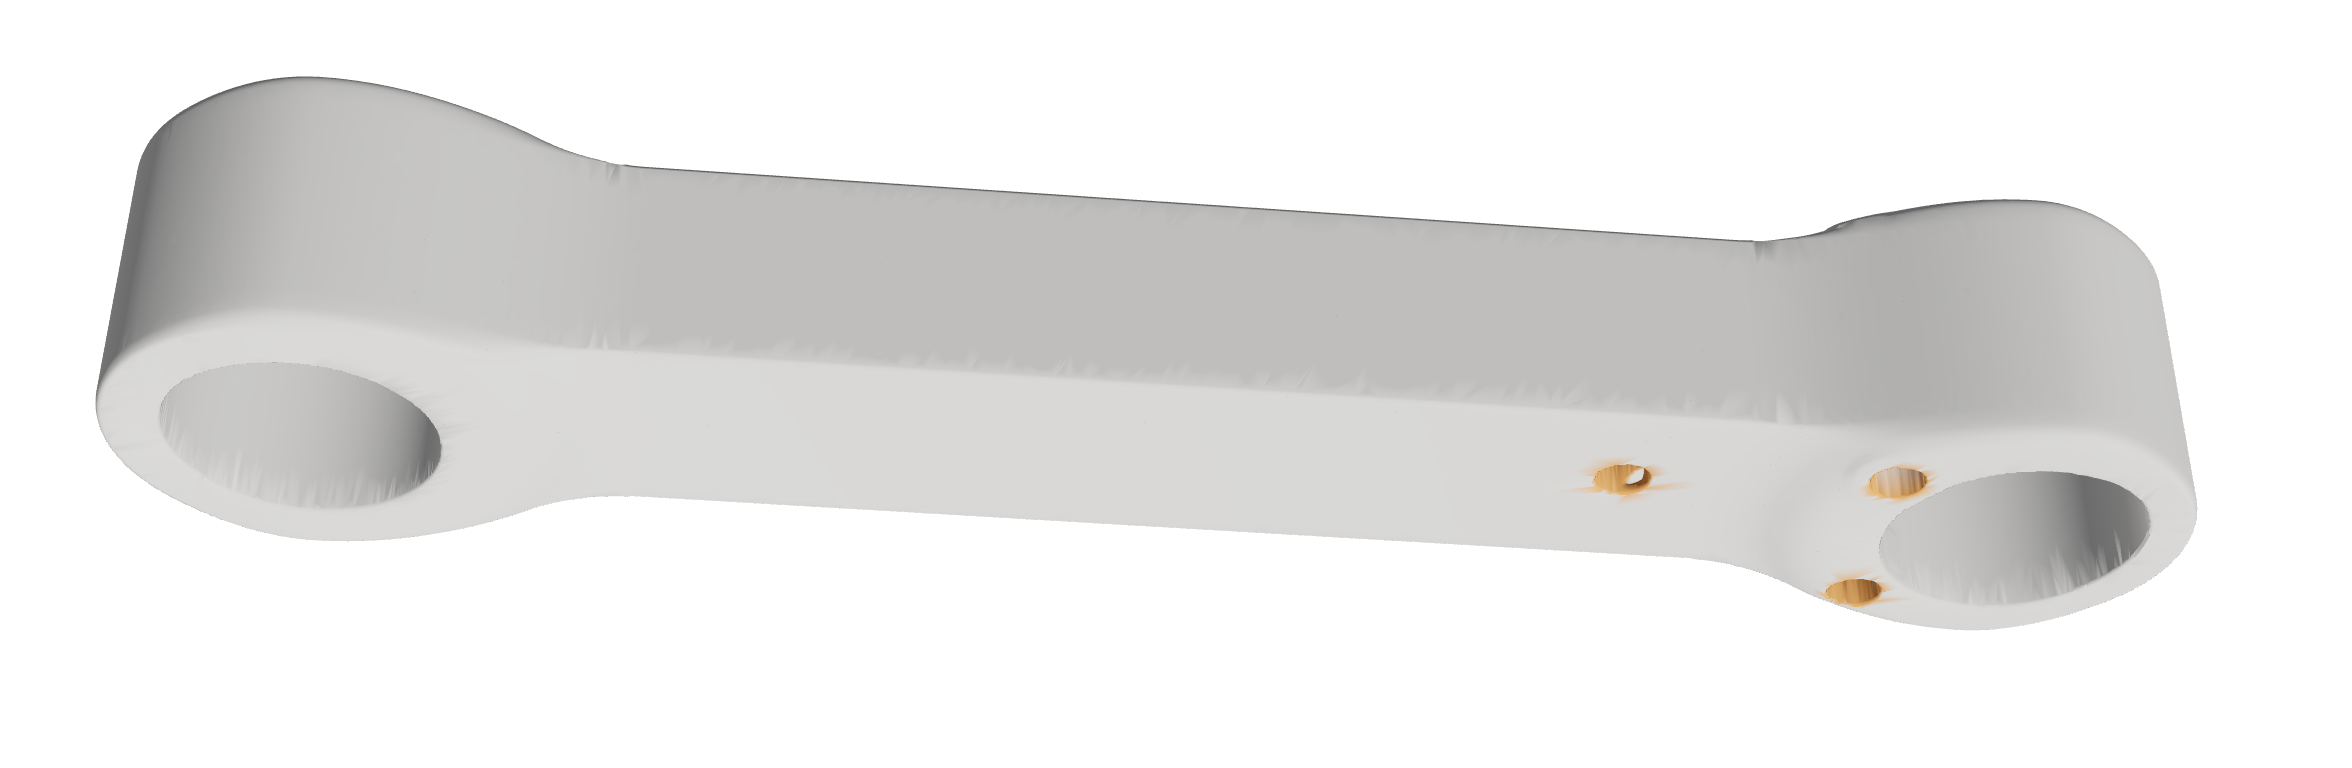
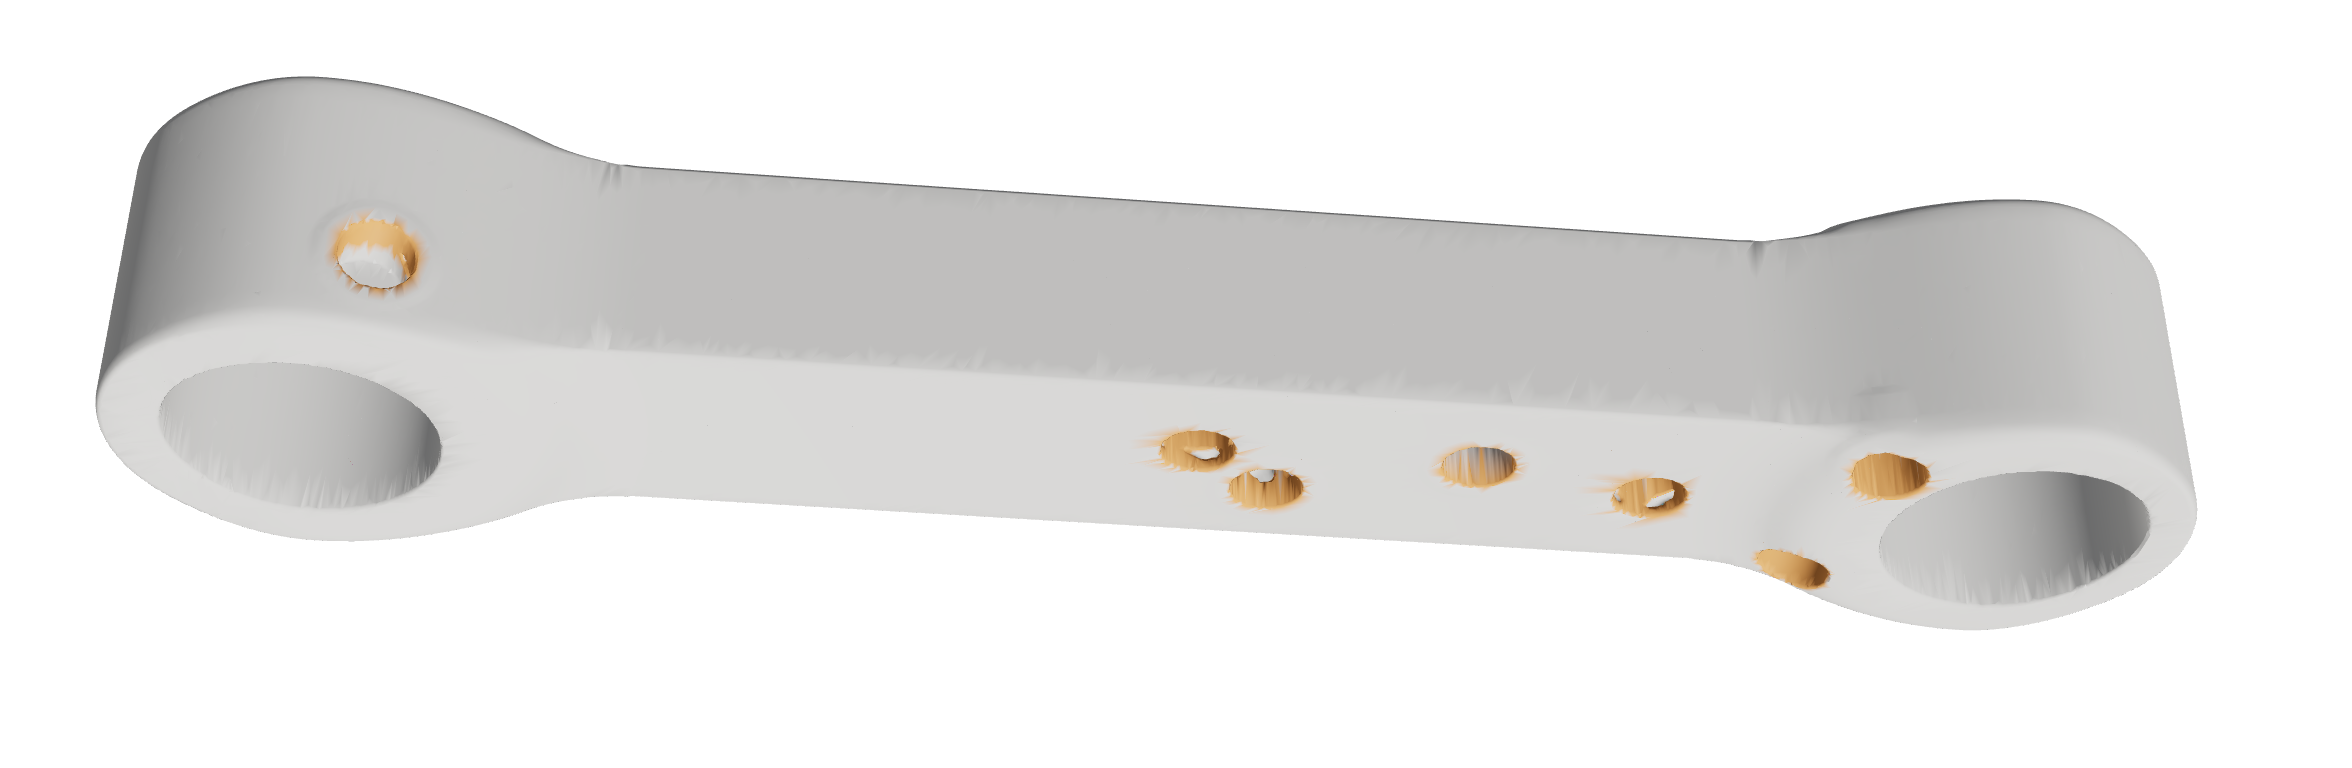
drains: conservative defaults (Connor: holes too tight)
Holes 1.5x the process's minimum escape hole or 2 mm over it, whichever
is larger (SLS 6, MJF 7.5, resin 5.5, volumetric 5; LPBF 6.8, M8 tap),
and maxPath 60 mm on by default (up to 8 holes a void). Arm link PA12:
14 holes, farthest powder 50 mm (was 124), nothing sealed, escape clear;
SF 13.5 vs 13.4 undrilled, 10% softer.

Claude-Session: https://claude.ai/code/session_01HFwANUeYJG6cPZRyDH6a6D

diff --git a/loadpath/drains.py b/loadpath/drains.py
@@ -8,9 +8,10 @@ output on a voxel grid of the field itself and opens each one:
 
 - voids too small to hold a hole (under the escape hole's own ball by
   default) are filled solid;
-- every other void gets holes half a millimetre over the process's
-  minimum escape hole (SLS 4 mm, MJF 5, resin 3.5, volumetric 3; LPBF 4.2,
-  an M5 tap drill, so it can be plugged), two per void by default:
+- every other void gets holes well over the process's minimum escape hole
+  (1.5 x it or 2 mm over, whichever is larger: SLS 6 mm, MJF 7.5, resin
+  5.5, volumetric 5; LPBF 6.8, an M8 tap drill, so it can be plugged), two
+  per void, then more until no powder is over 60 mm (`maxPath`) from one:
   the calmest flat site first, lowest along the build, then the calmest one
   well away from it, highest along the build, so air or rinse flows
   through (and resin has its drain at the bottom and its vent at the top);
@@ -40,6 +41,7 @@ Units are millimetres.
 """
 from __future__ import annotations
 
+import math
 from dataclasses import dataclass, field
 
 import numpy as np
@@ -49,17 +51,18 @@ __all__ = ["DrainOptions", "drain_graph", "drains_wanted", "hole_defaults"]
 
 # processes with something to drain, and the ones processcheck has no card for
 _DRAINED = ("sls", "mjf", "sla", "dlp", "volumetric", "lpbf")
-_EXTRA = {"volumetric": 3.0, "lpbf": 4.2}         # lpbf: an M5 tap drill, so a hole can be plugged
+_EXTRA = {"volumetric": 3.0, "lpbf": 4.0}         # minimum escape holes processcheck has no card for
+_LPBF_DRILL = 6.8                                 # an M8 tap drill: big, and it can be plugged
 _TINY = 1.0                                       # mm^3: smaller is aliasing, not a void
 _ROUNDS = 6                                       # relabellings; holes in the first four, then fill only
 _DRILL_ROUNDS = 4
-_MAX_HOLES = 6                                    # a void, with maxPath
+_MAX_HOLES = 8                                     # a void, with maxPath
 _BUDGET = 16_000_000
 
 
 @dataclass
 class DrainOptions:
-    diameter: float | None = None     # mm (default the process's escape hole + 0.5; LPBF 4.2, an M5 tap drill)
+    diameter: float | None = None     # mm (default see hole_defaults: SLS 6, MJF 7.5, resin 5.5, LPBF 6.8)
     count: int = 2                    # holes per void
     stress: str | None = "auto"       # node whose value ranks the sites: "auto" = the first result node, None = none
     boss: float | None = None         # mm of solid round each hole (default max(1.5 x min wall, 0.4 x radius))
@@ -68,7 +71,7 @@ class DrainOptions:
     fill_below: float | None = None   # mm^3: fill smaller voids solid (default the escape ball's volume)
     keep_clear: list = field(default_factory=list)   # solid nodes the bosses stay out of
     clearance: float = 1.0            # mm from those
-    max_path: float | None = None     # mm: more holes (up to 6 a void) while powder is farther than this from one
+    max_path: float | None = 60.0     # mm: more holes (up to 8 a void) while powder is farther than this from one (None: off)
     pitch: float | None = None        # mm grid (default 0.75 x min wall, at most diameter / 8)
 
     _KEYS = {"diameter": "diameter", "count": "count", "stress": "stress", "boss": "boss", "blend": "blend",
@@ -113,19 +116,26 @@ def drains_wanted(spec, process) -> bool:
 
 def hole_defaults(process):
     """(drilled diameter mm, the process's minimum escape hole mm, holes per
-    void) for a process (spec.Process or name). Powder and resin holes are
-    drilled half a millimetre over the minimum: a hole exactly at it is a
-    narrow exit to processcheck's escape ball on any grid, and to powder
-    that has caked a little. LPBF drills an M5 tap size, to plug."""
+    void) for a process (spec.Process or name).
+
+    Powder removal is where a part fails in production, so the drilled hole
+    is well over the bare minimum: 1.5 x the minimum or 2 mm over it,
+    whichever is larger, rounded up to half a millimetre (SLS 6, MJF 7.5,
+    SLA/DLP 5.5, volumetric 5). A hole at the minimum is a narrow exit to
+    processcheck's escape ball on any grid, and to powder that has caked or
+    resin that has thickened. LPBF drills 6.8 mm, an M8 tap drill, so it
+    can still be plugged."""
     from .processcheck import RULES
 
     kind = str(getattr(process, "kind", process) or "").lower()
     esc = getattr(process, "escape_hole", None)
     if kind in RULES:
-        least = float(esc or RULES[kind]["escapeHole"])
-        return least + 0.5, least, int(RULES[kind]["escapeHoles"])
-    least = float(esc or _EXTRA.get(kind, 4.0))
-    return least + (0.0 if kind == "lpbf" and esc is None else 0.5), least, 2
+        least, per = float(esc or RULES[kind]["escapeHole"]), int(RULES[kind]["escapeHoles"])
+    else:
+        least, per = float(esc or _EXTRA.get(kind, 4.0)), 2
+    if kind == "lpbf" and esc is None:
+        return _LPBF_DRILL, least, per
+    return math.ceil(2.0 * max(1.5 * least, least + 2.0)) / 2.0, least, per
 
 
 def _as_process(process):

diff --git a/loadpath/schema.py b/loadpath/schema.py
@@ -672,9 +672,9 @@ FIELD_SCHEMA = {
             {"enum": ["auto"]}, {"type": "boolean"},
             {"type": "object", "properties": {
                 "enabled": {"type": "boolean"},
-                "diameter": {**_POS, "description": "mm (default the process's minimum escape hole + 0.5: "
-                                                    "SLS 4.5, MJF 5.5, SLA/DLP 4, volumetric 3.5; LPBF 4.2, an "
-                                                    "M5 tap drill)"},
+                "diameter": {**_POS, "description": "mm (default 1.5 x the process's minimum escape hole or 2 mm "
+                                                    "over it, whichever is larger: SLS 6, MJF 7.5, SLA/DLP 5.5, "
+                                                    "volumetric 5; LPBF 6.8, an M8 tap drill)"},
                 "count": {"type": "integer", "minimum": 1, "description": "holes per void (default 2: one "
                                                                          "low, one high along the build)"},
                 "stress": {"type": ["string", "null"], "description": "node that ranks the sites, calmest "
@@ -691,8 +691,9 @@ FIELD_SCHEMA = {
                               "description": "solid nodes the bosses stay out of (bearing seats, mating faces)"},
                 "clearance": {"type": "number", "minimum": 0, "description": "mm from keepClear (default 1)"},
                 "pitch": {**_POS, "description": "mm grid for finding voids (default the mesh pitch)"},
-                "maxPath": {**_POS, "description": "mm: add holes (up to 6 a void) while any powder is farther "
-                                                   "than this from a hole, through the void"}},
+                "maxPath": {"anyOf": [_POS, {"type": "null"}],
+                            "description": "mm: add holes (up to 8 a void) while any powder is farther than this "
+                                           "from a hole, through the void (default 60; null: just count)"}},
              "additionalProperties": False}],
             "description": "Drain holes into sealed voids (trapped powder or resin): 'auto' (default) drills "
                            "for powder-bed and resin processes, true always, false never. Holes go at the "

diff --git a/tests/test_fields.py b/tests/test_fields.py
@@ -271,7 +271,7 @@ def _skinned_box(**extra):
 
 
 def test_drains_open_every_sealed_void():
-    """SLS: both labyrinths get two 4.5 mm holes each on flat faces, the
+    """SLS: both labyrinths get two 6 mm holes each on flat faces, the
     meshed part has no sealed shell left, every bit of each void reaches a
     hole, and processcheck's 4 mm escape ball gets out of all of it."""
     from loadpath.fields import run_field
@@ -284,10 +284,11 @@ def test_drains_open_every_sealed_void():
     assert all(v["unreachedVolume"] == 0 and v["farthestFromOpening"] < 60 for v in d["voids"]), d["voids"]
     assert d["meshEscape"]["enclosedCount"] == 0 and d["meshEscape"]["narrowExitCount"] == 0, d
     for h in d["holes"]:
-        assert h["diameter"] == 4.5 and max(abs(c) for c in h["axis"]) > 0.999, h     # square to a face
+        assert h["diameter"] == 6.0 and max(abs(c) for c in h["axis"]) > 0.999, h     # square to a face
         # well inside a face: a boss on an edge would poke out
-        at = np.array(h["at"])
-        assert np.all(at >= [3.5, 3.5, -0.1]) and np.all(at <= [36.5, 26.5, 14.1]), h
+        at, k = np.array(h["at"]), int(np.argmax(np.abs(h["axis"])))
+        off = np.minimum(at, [40, 30, 14] - at)
+        assert abs(off[k]) < 0.1 and all(off[j] > 4.0 for j in range(3) if j != k), h
     # mouths really open: the mesh's surface passes through a hole's rim, not across its middle
     q = np.array([np.array(h["at"]) - 0.5 * np.array(h["axis"]) for h in d["holes"]])
     assert (trimesh.proximity.signed_distance(mesh, q) < 0).all()      # trimesh: negative = outside
@@ -303,7 +304,7 @@ def test_drains_go_where_it_is_calm():
     doc["nodes"]["s"] = {"op": "coordinate", "axis": "x"}
     _, rep = run_field(doc, render=False)
     d = rep["drains"]
-    assert d["ok"] and len(d["holes"]) == 4 and d["diameter"] == 4.0, d
+    assert d["ok"] and len(d["holes"]) == 4 and d["diameter"] == 5.5, d
     assert all(h["at"][0] < 20 for h in d["holes"]), d["holes"]
     _, rep = run_field(_skinned_box(process="sla"), render=False)
     axes = [round(h["axis"][2]) for h in rep["drains"]["holes"]]

diff --git a/docs/fields.md b/docs/fields.md
@@ -114,9 +114,13 @@ graph drills its own drain holes before it is meshed:
    cannot reach the outside is found, down to the slivers where a lattice
    wall grazes the skin.
 2. Voids smaller than the escape ball (`fillBelow`) are filled solid.
-3. Every other void gets `count` holes (default 2) half a millimetre over
-   the process's minimum escape hole (SLS 4.5 mm, MJF 5.5, SLA/DLP 4,
-   volumetric 3.5; LPBF 4.2, an M5 tap drill, so it can be plugged). The
+3. Every other void gets `count` holes (default 2), then more until no
+   powder is over `maxPath` (default 60 mm) from one. Powder removal is
+   where a part fails in production, so the holes are well over the
+   process's minimum escape hole: 1.5 x it or 2 mm over, whichever is
+   larger (SLS 6 mm, MJF 7.5, SLA/DLP 5.5, volumetric 5; LPBF 6.8, an M8
+   tap drill, so it can be plugged). `diameter` and `"maxPath": null`
+   take it back toward the minimum. The
    sites are ranked by the graph's own stress (the first `result` node, or
    `stress`), calmest first: a hole is a stress raiser. The first goes
    lowest along the build and the second highest, well apart, so air or
@@ -140,24 +144,20 @@ turns it off; `"drains": true` drills for any process.
 
 Sites are chosen calm first: the stress a hole sees is the worse of its
 inner end's and its mouth's (a bending part is calm at the core, not at
-the skin). Being well apart comes second, so two holes of a void can end
-up close together at the calm end, with a long powder path to the far
-end. `maxPath` (mm) adds holes, up to six a void, until no powder is
-farther than that from one, at the price of hotter sites.
+the skin). The holes `maxPath` adds go where the powder is farthest,
+calmest first, so they sit hotter than the first two.
 
-On the arm-link example in PA12 (`"process": "sls"`): 46 sealed voids
-(both gyroid labyrinths, the cable channel and 360 slivers by the
-bearing collars, 16.6 cm^3) become 6 holes at 5 to 15% of the peak
-stress, and 0.4 cm^3 of fill; the meshed part has no sealed shell and the
-4 mm escape ball reaches every chamber. The farthest powder is 82 to 124
-mm from a hole; with `"maxPath": 80` it is 9 holes, at most 57 mm, but
-three of the extra holes sit at 20 to 34% of the peak.
-Verified under the arm-link study (verify_part, 400k cells): undrilled SF
-13.4 and 0.587 mm, drilled SF 12.8 and 0.607 mm, `maxPath` 80 SF 14.4 and
-0.605 mm. The SF moves within the voxel model's own scatter; the holes
-cost about 3% of stiffness.
+On the arm-link example in PA12 (`"process": "sls"`): 47 sealed voids
+(both gyroid labyrinths, the cable channel and 378 slivers by the bearing
+collars, 16.6 cm^3) become 14 holes of 6 mm and 0.4 cm^3 of fill. No
+powder is more than 50 mm from a hole (two minimum-size holes a void left
+it 124 mm away). The meshed part has no sealed shell and the 4 mm escape
+ball reaches every chamber. The first holes sit at 4 to 15% of the peak
+stress, the added ones at 17 to 30%. Under the arm-link study
+(verify_part, 400k cells): undrilled SF 13.4 and 0.587 mm, drilled SF
+13.5 and 0.647 mm, 0.9 g lighter. The holes cost about 10% of stiffness,
+not strength.
 
-![section through a drain hole](images/fields/arm-link-drain-section.png)
 
 ## Pitfalls
 

diff --git a/README.md b/README.md
@@ -112,12 +112,14 @@ to 12 mm cells:
 ![graded gyroid](docs/images/fields/graded-cell.png)
 
 A skin over a lattice traps powder or resin. Give the graph a `"process"` and it
-drills its own drain holes: the process's escape size, on bosses, at the calmest
-flat faces (here 5 to 15% of the link's peak stress, clear of the bearing seats),
-then checks that nothing is still sealed and the escape ball reaches every chamber.
+drills its own drain holes, sized well over the process minimum (6 mm for SLS) and
+added until no powder is more than 60 mm from one, on bosses, at the calmest flat
+faces clear of the bearing seats. Then it checks that nothing is still sealed and
+the escape ball reaches every chamber. The arm link takes 14 holes; SF 13.5
+against 13.4 undrilled, 10% softer.
 
-![drain holes in the arm link](docs/images/fields/arm-link-drains.png)
-![section through a drain hole](docs/images/fields/arm-link-drain-section.png)
+![drain holes in the arm link](docs/images/fields/arm-link-drains-top.png)
+![drain holes in the arm link, underside](docs/images/fields/arm-link-drains.png)
 
 ## Install
 
